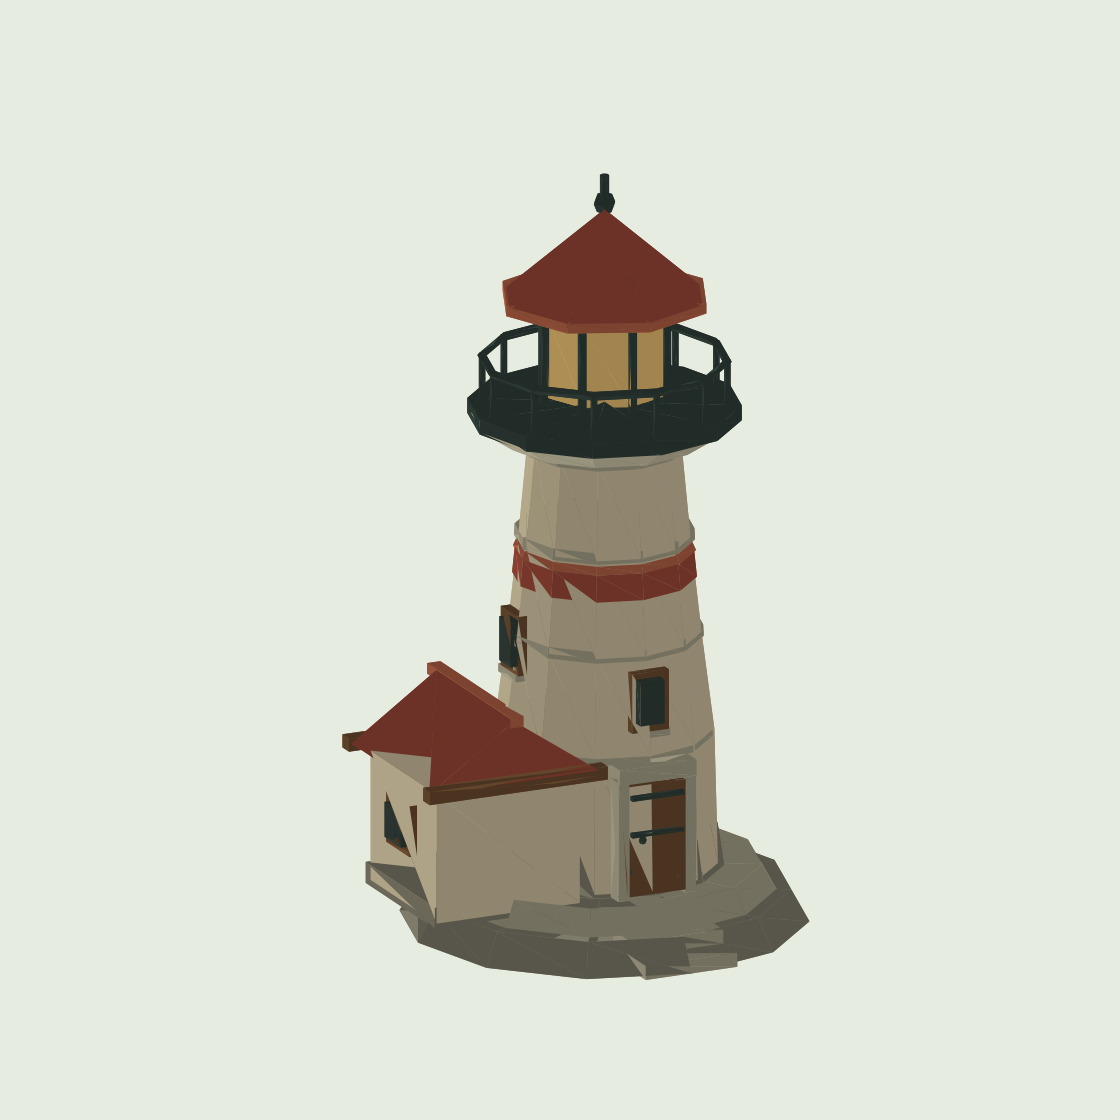
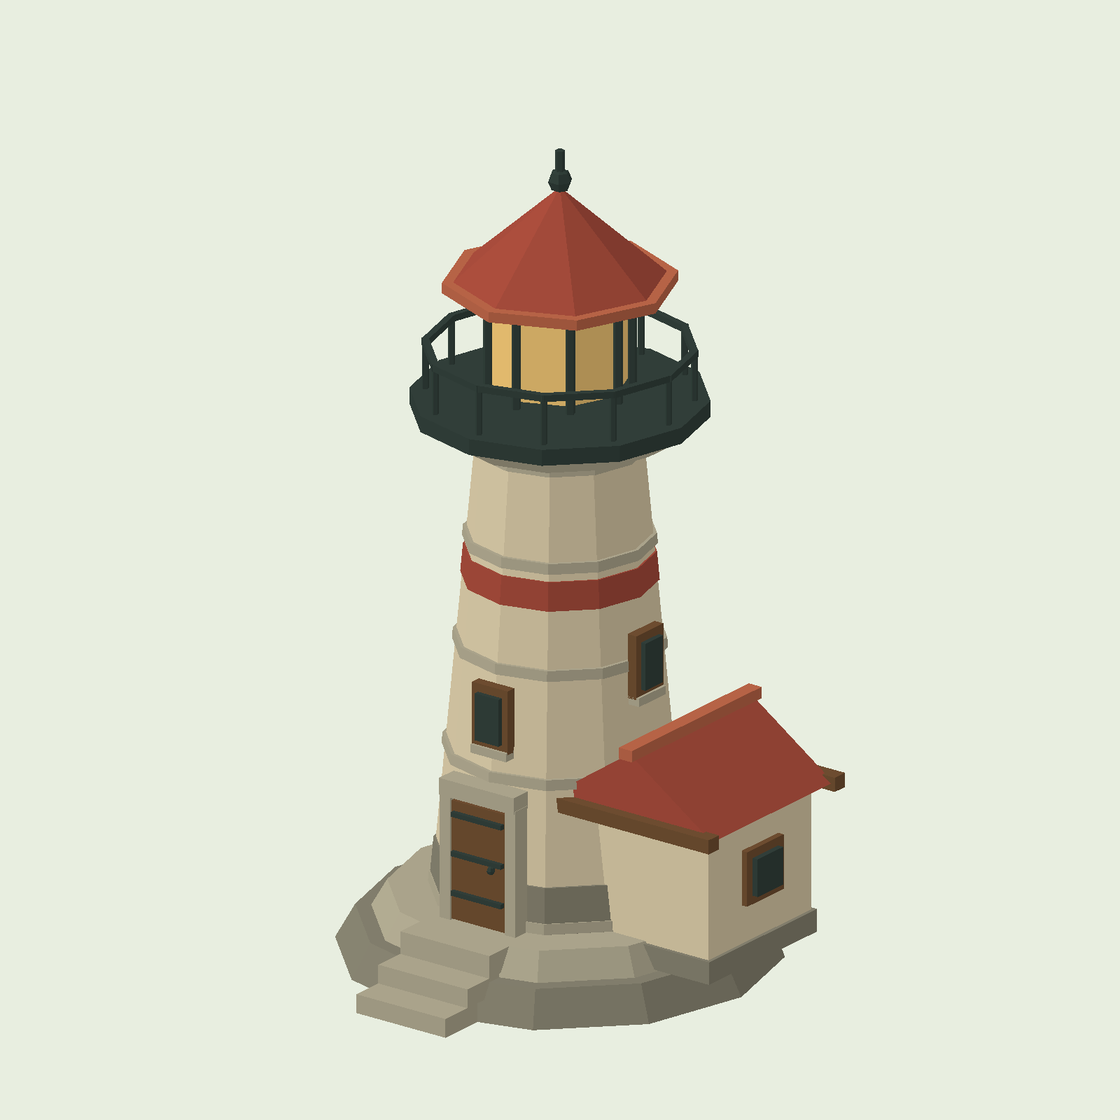
Clean lighthouse taper, trims, flat normals, railings and entrance steps

Changed region(s): [[0.2812, 0.125, 0.75, 0.9375]]

diff --git a/index.html b/index.html
@@ -138,17 +138,17 @@
 
   <script type="module" src="./src/seed-runtime.js?v=1"></script>
   <script type="module" src="./src/water-v4-macrowaves.js?v=2"></script>
-  <script type="module" src="./src/main.js?v=lighthouse-1"></script>
-  <script type="module" src="./src/territory-card-preview.js?v=lighthouse-1"></script>
+  <script type="module" src="./src/main.js?v=lighthouse-2"></script>
+  <script type="module" src="./src/territory-card-preview.js?v=lighthouse-2"></script>
   <script type="module" src="./src/biome-runtime.js?v=2"></script>
-  <script type="module" src="./src/card-progression-runtime.js?v=lighthouse-1"></script>
-  <script type="module" src="./src/save-runtime.js?v=lighthouse-1"></script>
+  <script type="module" src="./src/card-progression-runtime.js?v=lighthouse-2"></script>
+  <script type="module" src="./src/save-runtime.js?v=lighthouse-2"></script>
   <script type="module" src="./src/settings-runtime.js?v=1"></script>
-  <script type="module" src="./src/progression-runtime.js?v=lighthouse-1"></script>
+  <script type="module" src="./src/progression-runtime.js?v=lighthouse-2"></script>
   <script type="module" src="./src/draft-runtime.js?v=2"></script>
-  <script type="module" src="./src/combo-encyclopedia.js?v=lighthouse-1"></script>
+  <script type="module" src="./src/combo-encyclopedia.js?v=lighthouse-2"></script>
   <script type="module" src="./src/tutorial-runtime.js?v=2"></script>
   <script type="module" src="./src/session-shell.js?v=3"></script>
-  <script type="module" src="./src/main-menu.js?v=lighthouse-1"></script>
+  <script type="module" src="./src/main-menu.js?v=lighthouse-2"></script>
 </body>
 </html>

diff --git a/src/main.js b/src/main.js
@@ -2,11 +2,11 @@ import * as THREE from 'three';
 import { MapControls } from 'three/addons/controls/MapControls.js';
 import { GLTFLoader } from 'three/addons/loaders/GLTFLoader.js';
 import { RoundedBoxGeometry } from 'three/addons/geometries/RoundedBoxGeometry.js';
-import { CARD_DEFS, DECK_WEIGHTS, DIRECTIONS, GRID } from './config.js?v=lighthouse-1';
-import { createWorldModel, fitModelToBounds } from './model-layout.js?v=lighthouse-1';
-import { ASSETS, assetVariant } from './models.js?v=lighthouse-1';
+import { CARD_DEFS, DECK_WEIGHTS, DIRECTIONS, GRID } from './config.js?v=lighthouse-2';
+import { createWorldModel, fitModelToBounds } from './model-layout.js?v=lighthouse-2';
+import { ASSETS, assetVariant } from './models.js?v=lighthouse-2';
 import { buildTerrainTile, buildShoreWater, disposeTerrainTile } from './terrain.js?v=water-v2-1';
-import { createBoatVisual, attachLighthouseBeam } from './marine-visuals.js?v=lighthouse-1';
+import { createBoatVisual, attachLighthouseBeam } from './marine-visuals.js?v=lighthouse-2';
 import {
   createIslandFragment,
   fragmentDescription,
@@ -15,7 +15,7 @@ import {
   rotateIslandCard,
   rotatedFragmentCells,
   syncIslandGhost
-} from './island-fragments.js?v=lighthouse-1';
+} from './island-fragments.js?v=lighthouse-2';
 
 const $=s=>document.querySelector(s);
 const canvas=$('#game');

diff --git a/src/models.js b/src/models.js
@@ -1,11 +1,11 @@
 const RTS_ROOT = './assets/quaternius/ultimate-fantasy-rts';
 const PIRATE_MIRROR_COMMIT = 'c850a2840081a30442f252d6e2ce9db4d02362ee';
 const PIRATE_ROOT = `https://raw.githubusercontent.com/eitan567/VerdantIsle/${PIRATE_MIRROR_COMMIT}/models/Pirate%20kit-glb`;
-const rts = file => `${RTS_ROOT}/${file}.gltf?v=lighthouse-1`;
+const rts = file => `${RTS_ROOT}/${file}.gltf?v=lighthouse-2`;
 
 export const ASSETS = {
   windmill: rts('Windmill_SecondAge'),
-  lighthouse: './assets/models/corepolis-lighthouse.glb?v=lighthouse-1',
+  lighthouse: './assets/models/corepolis-lighthouse.glb?v=lighthouse-2',
   treeA: rts('Resource_PineTree_Group'),
   treeB: rts('Resource_Tree_Group'),
   rockA: rts('Resource_Rock_1'),

diff --git a/src/territory-card-preview.js b/src/territory-card-preview.js
@@ -1,8 +1,8 @@
-import { createWorldModel } from './model-layout.js?v=lighthouse-1';
+import { createWorldModel } from './model-layout.js?v=lighthouse-2';
 import * as THREE from 'three';
 import { GLTFLoader } from 'three/addons/loaders/GLTFLoader.js';
-import { GRID } from './config.js?v=lighthouse-1';
-import { ASSETS, assetVariant } from './models.js?v=lighthouse-1';
+import { GRID } from './config.js?v=lighthouse-2';
+import { ASSETS, assetVariant } from './models.js?v=lighthouse-2';
 import { buildTerrainTile, disposeTerrainTile } from './terrain.js?v=water-v2-1';
 
 const WIDTH=420;

diff --git a/src/main-menu.js b/src/main-menu.js
@@ -1,7 +1,7 @@
-import { createWorldModel, fitModelToBounds } from './model-layout.js?v=lighthouse-1';
+import { createWorldModel, fitModelToBounds } from './model-layout.js?v=lighthouse-2';
 import * as THREE from 'three';
 import { GLTFLoader } from 'three/addons/loaders/GLTFLoader.js';
-import { ASSETS, ASSET_VARIANTS, assetVariant } from './models.js?v=lighthouse-1';
+import { ASSETS, ASSET_VARIANTS, assetVariant } from './models.js?v=lighthouse-2';
 import { clearSave, hasCompatibleSave, readSave } from './session-state.js?v=1';
 
 const root=document.querySelector('#main-menu');

diff --git a/src/island-fragments.js b/src/island-fragments.js
@@ -1,7 +1,7 @@
 import * as THREE from 'three';
 import { buildTerrainTile, disposeTerrainTile } from './terrain.js?v=water-v2-1';
-import { GRID } from './config.js?v=lighthouse-1';
-import './territory-card-preview.js?v=lighthouse-1';
+import { GRID } from './config.js?v=lighthouse-2';
+import './territory-card-preview.js?v=lighthouse-2';
 
 export const ISLAND_FRAGMENT_SHAPES=[
   {id:'single',label:'1×1',weight:8,cells:[[0,0]]},

diff --git a/src/card-progression-runtime.js b/src/card-progression-runtime.js
@@ -1,4 +1,4 @@
-import { CARD_DEFS, DECK_WEIGHTS } from './config.js?v=lighthouse-1';
+import { CARD_DEFS, DECK_WEIGHTS } from './config.js?v=lighthouse-2';
 
 const STORAGE_KEY='corepolis:card-progression:v1';
 const STORAGE_VERSION=1;
